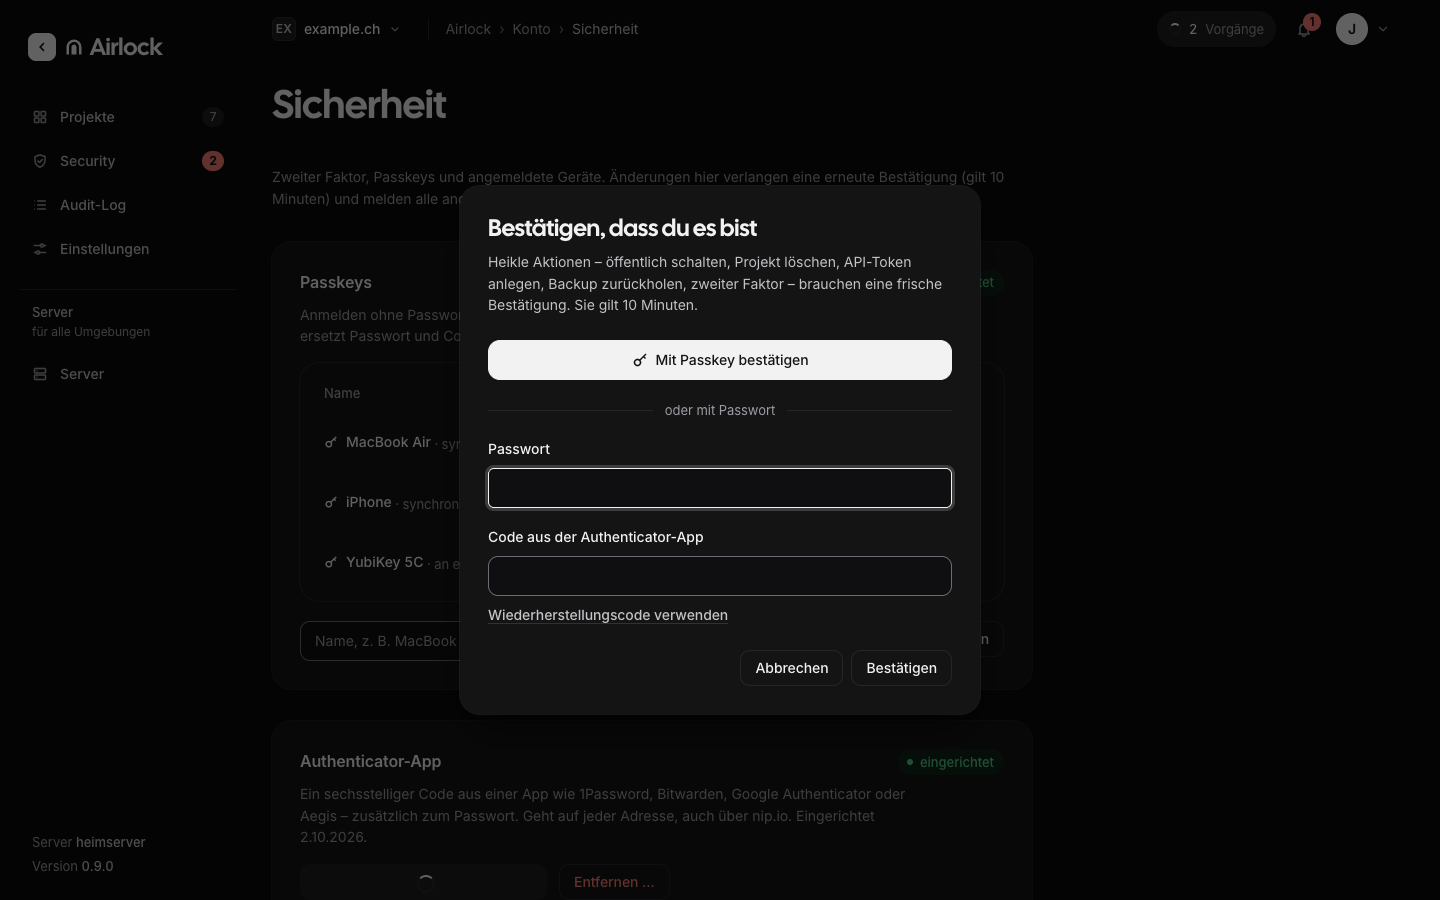
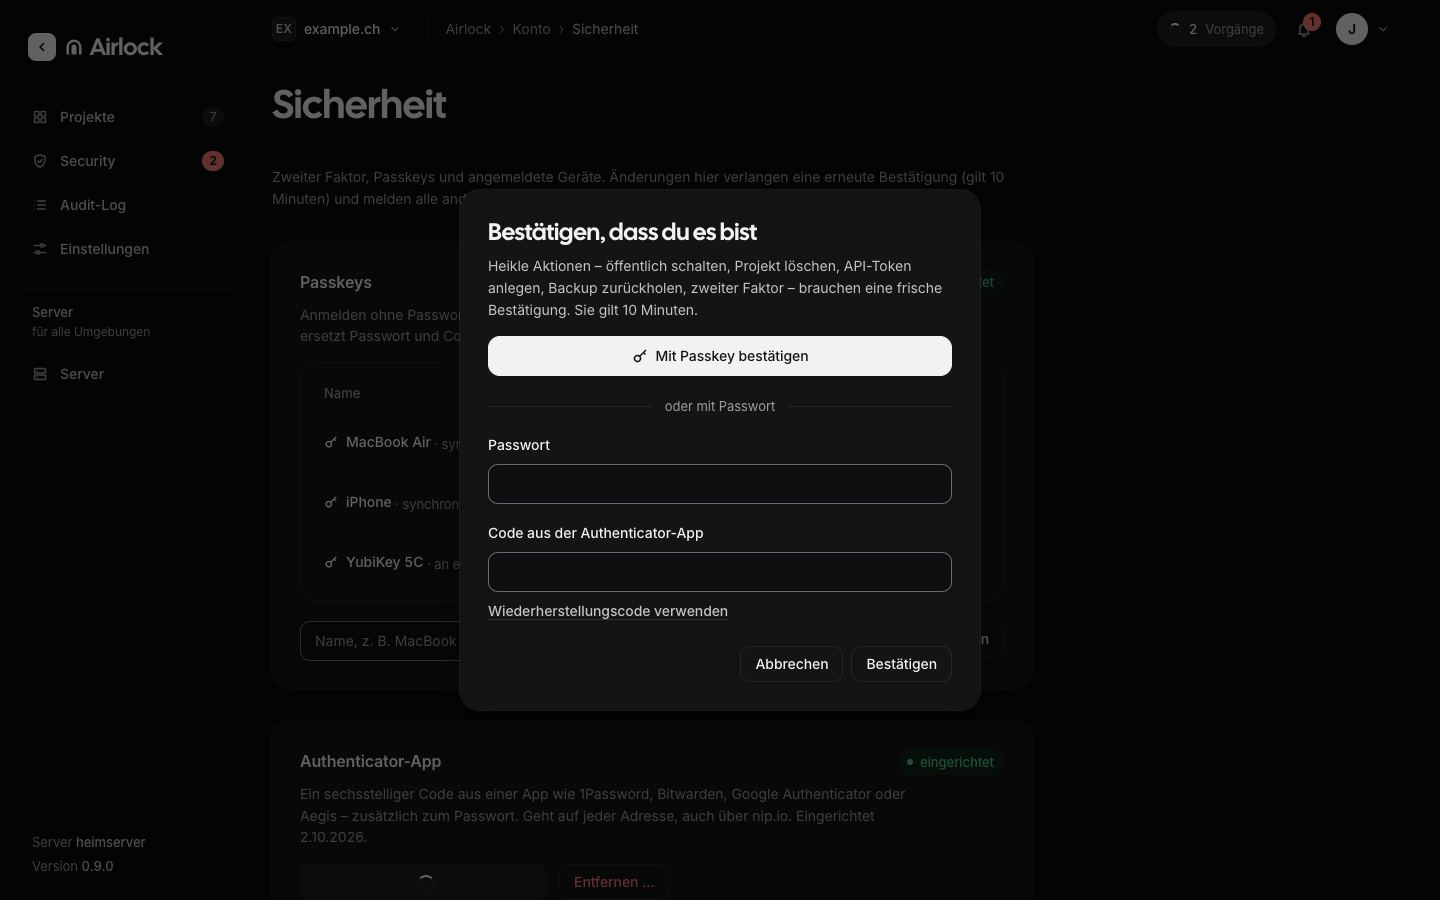
Bestätigungsdialog: Fokus fest auf Passkey bzw. Passwort, Login übersteht leere Antwort
Der Fokus im Dialog hing davon ab, ob die Angaben zur Bestätigung vor oder
nach dem Öffnen ankamen; jetzt immer die erste Wahl. Die Anmeldung gilt nur
bei ausdrücklichem «secondFactor» als zweiter Schritt (die Szene
sitzung-erneut-ausfuehren hing sonst). Referenzbilder sudo-bestaetigung
(hell, dunkel, Win95, Terminal) neu: Fokus auf «Mit Passkey bestätigen»;
maxDiff 1200 wegen Kantenglättung einer Textzeile (Begründung an der Szene).

diff --git a/packages/web/src/components/SudoDialog.tsx b/packages/web/src/components/SudoDialog.tsx
@@ -48,6 +48,12 @@ export function SudoDialogView({ open, onDone }: { open: boolean; onDone: (ok: b
   }, [open]) // eslint-disable-line react-hooks/exhaustive-deps
 
   useEffect(() => { if (needs && !needs.totp && needs.recovery) setRecovery(true) }, [needs])
+  // Fokus erst, wenn klar ist, was geht: Passkey (erste Wahl) oder Passwort – unabhängig davon,
+  // ob die Antwort vor oder nach dem Öffnen kommt
+  useEffect(() => {
+    if (!open || !status.isFetched) return
+    requestAnimationFrame(() => document.querySelector<HTMLElement>('[data-sudo-focus]')?.focus())
+  }, [open, status.isFetched, passkey])
 
   const done = () => {
     void qc.invalidateQueries({ queryKey: ['security'] })
@@ -90,23 +96,25 @@ export function SudoDialogView({ open, onDone }: { open: boolean; onDone: (ok: b
   }
 
   return (
-    <Modal open={open} onClose={() => onDone(false)} labelledBy="sudo-h" describedBy="sudo-text" busy={busy} initialFocus={passkey ? '.sudo-passkey' : undefined}>
+    <Modal open={open} onClose={() => onDone(false)} labelledBy="sudo-h" describedBy="sudo-text" busy={busy} initialFocus="[data-sudo-focus]">
       <form onSubmit={submit} noValidate ref={form.formRef} className="sudo-form">
         <h2 id="sudo-h">Bestätigen, dass du es bist</h2>
-        <p id="sudo-text" className="confirm-dialog-text">
-          Heikle Aktionen – öffentlich schalten, Projekt löschen, API-Token anlegen, Backup zurückholen,
-          zweiter Faktor – brauchen eine frische Bestätigung. Sie gilt {SUDO_MINUTES} Minuten.
-        </p>
+        <div className="confirm-dialog-text">
+          <p id="sudo-text">
+            {`Heikle Aktionen – öffentlich schalten, Projekt löschen, API-Token anlegen, Backup zurückholen, zweiter Faktor – brauchen eine frische Bestätigung. Sie gilt ${SUDO_MINUTES} Minuten.`}
+          </p>
+        </div>
         {passkey && (
           <>
-            <button type="button" className="button-primary sudo-passkey" onClick={() => void viaPasskey()} disabled={busy}>
+            <button type="button" className="button-primary sudo-passkey" onClick={() => void viaPasskey()} disabled={busy} data-sudo-focus>
+
               <IconKey size={16} /> Mit Passkey bestätigen
             </button>
             <p className="login-or" aria-hidden="true"><span>oder mit Passwort</span></p>
           </>
         )}
         <Field id={form.idFor('password')} label="Passwort" error={form.errors.password}>
-          <input {...form.field('password')} type="password" autoComplete="current-password" value={password} onChange={(e) => setPassword(e.target.value)} />
+          <input {...form.field('password')} data-sudo-focus={passkey ? undefined : true} type="password" autoComplete="current-password" value={password} onChange={(e) => setPassword(e.target.value)} />
         </Field>
         {wantsCode && (
           <Field

diff --git a/packages/web/design-shots/shoot.ts b/packages/web/design-shots/shoot.ts
@@ -649,11 +649,14 @@ const shots: Shot[] = [
   },
   {
     // Heikle Aktion ohne frische Bestätigung: der Server antwortet «sudo_required», der Dialog fragt
-    group: 'sicherheit', name: 'sudo-bestaetigung', path: '/konto/sicherheit', full: false,
+    // maxDiff: eine Textzeile im Dialog wird je nach Lauf um einen Bruchteil eines Pixels versetzt
+    // gerastert (Dialog senkrecht zentriert, Höhe ungerade) – nur Kantenglättung, ~900 Pixel
+    group: 'sicherheit', name: 'sudo-bestaetigung', path: '/konto/sicherheit', full: false, maxDiff: 1200,
     prepare: async (pg) => {
       await pg.route('**/api/v1/auth/totp/setup', (r) => json(r, { error: { code: 'sudo_required', message: 'Bitte bestätige zuerst, dass du es bist (gilt 10 Minuten)' } }, 403))
       await pg.getByRole('button', { name: 'Neu einrichten (anderes Telefon)' }).click()
       await pg.getByRole('dialog', { name: 'Bestätigen, dass du es bist' }).waitFor()
+      await pg.getByRole('button', { name: 'Mit Passkey bestätigen' }).waitFor()
       await pg.waitForTimeout(300)
     },
   },

diff --git a/packages/web/src/pages/AccountSecurity.tsx b/packages/web/src/pages/AccountSecurity.tsx
@@ -366,9 +366,9 @@ export function RecoveryCodesDialog({ codes, onClose }: { codes: RecoveryCodesDt
       {codes && (
         <>
           <h2 id="codes-h">Wiederherstellungscodes</h2>
-          <p id="codes-text" className="confirm-dialog-text">
-            Jetzt sichern – Airlock zeigt sie nicht noch einmal. Jeder Code gilt genau einmal anstelle des Codes aus der App.
-          </p>
+          <div className="confirm-dialog-text">
+            <p id="codes-text">Jetzt sichern – Airlock zeigt sie nicht noch einmal. Jeder Code gilt genau einmal anstelle des Codes aus der App.</p>
+          </div>
           <ol className="recovery-codes" aria-label="Wiederherstellungscodes">
             {codes.codes.map((c) => <li key={c}><code>{c}</code></li>)}
           </ol>
